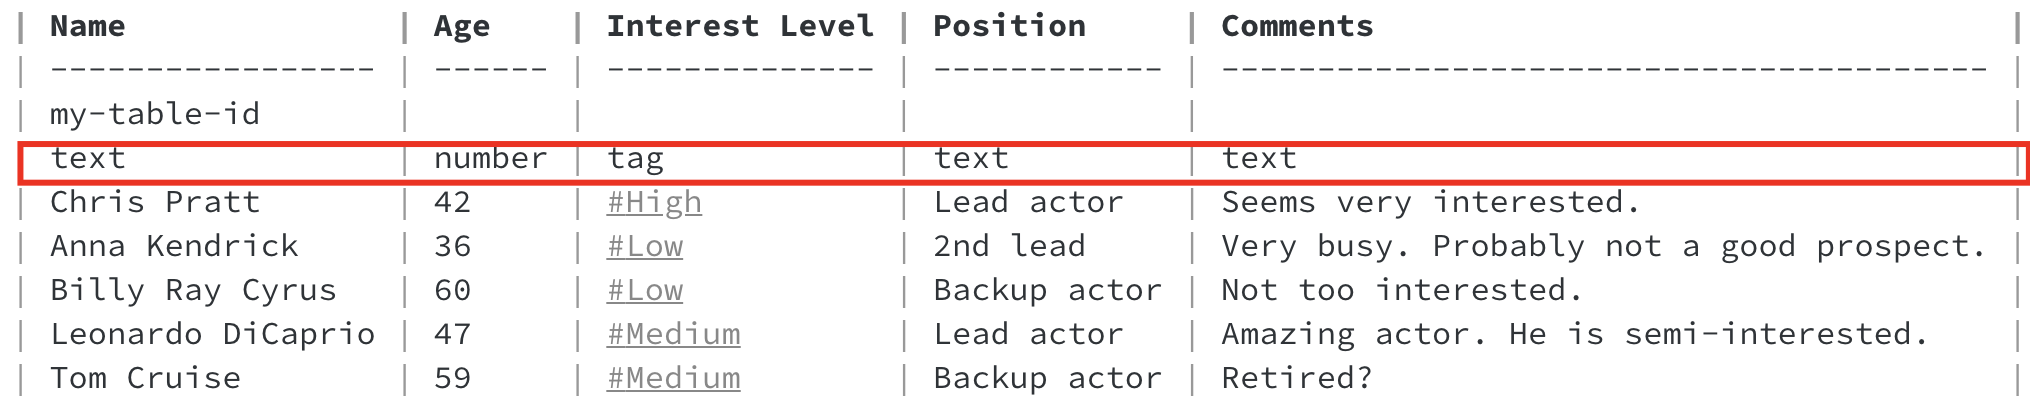
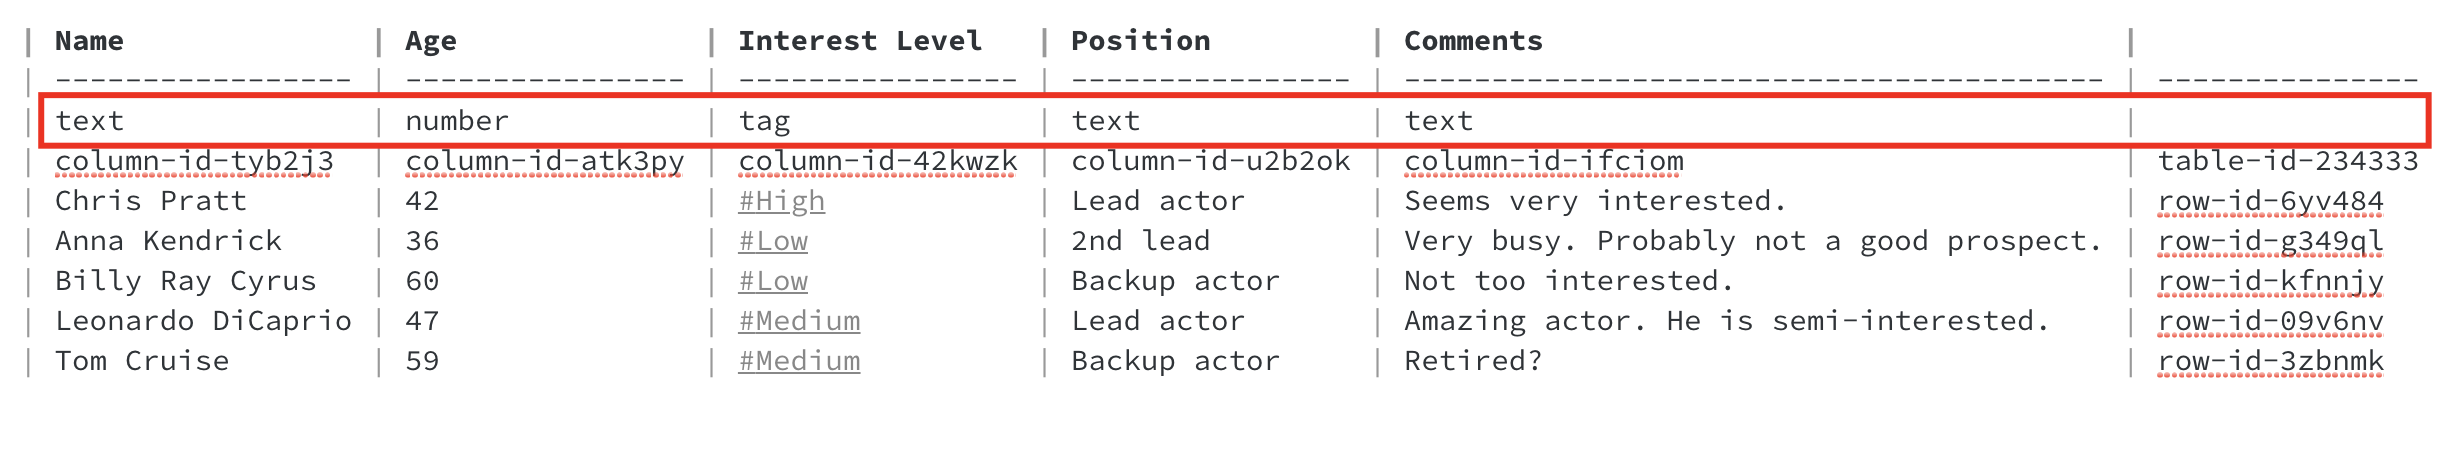
Updated documentation

diff --git a/README.md b/README.md
@@ -8,21 +8,13 @@ Obsidian Notion-Like Tables allows you to create markdown tables using an interf
 
 ## What's New?
 
-## Version 2.3.6
+## Version 3.0.0
 
-In 2.3.4 I introduced a bug that made it impossible to edit cells. This persisted until 2.3.5. I apologize for the inconveniece this caused anyone.
+Notion Like Tables now supports a new table format that will facilitate better development in the plugin.
 
-Version 2.3.6 (newly updated) includes a lot of bug fixes/refactored code. All in all, the functionality is the same, but you should notice that some UI discrepencies were fixed, including how the edit menu for cells appear.
+Please upgrade your tables to this new format. This update also includes several bug fixes that could only be fixed by placing column and row ids into the table.
 
-I also replaced the tabbing system for a custom focus system. Press tab to see how things work now.
-In addition, when you add a new row, the first cell of that row will focus.
-
-Thank you to [imeed166](https://github.com/imeed166) for his help and suggestions. :)
-
-### Version 2.3.0
-
--   Refactored menu into submenus (More like Notion ;)
--   Added cell tabbing for accessibility
+To migrate to the new format please see the section below: `Making a Table Manually`
 
 ## Usage
 
@@ -50,26 +42,39 @@ Toggle to reading mode and the table will automatically render.
 
 ### Making a Table Manually
 
-A Notion-Like Table uses normal Obsidian table markdown syntax with 2 additional rows:
+A Notion-Like Table uses normal Obsidian table markdown syntax with 2 additional rows and 1 column for meta-data:
 
--   A table id row
--   A type definition row
-
-#### Table ID Row
-
-The table id row is a normal markdown row with the first column containing a unique string. This string must be unique for each table in a file (if you use the same id in another file that's fine).
-
-The id is used to map a table to its data in the settings. If you change this id, your table will not be able to find its settings and will create new ones.
-
-If you omit this id, your table will not be rendered as an NLT table.
-
-![Screenshot](https://raw.githubusercontent.com/trey-wallis/obsidian-notion-like-tables/master/.readme/table-id-row.png)
+-   A type defintion row
+-   A column id row
+-   A row id column
 
 ##### Type Definition Row
 
-The type definition row is a normal markdown row with each column defining the type of data you want that column to accept. The plugin currently supports 3 column types: `text`, `number` and `tag`.
+The type definition row is a normal markdown row with each cell containing the type of data you want that column to accept. The plugin currently supports 3 column types: `text`, `number` and `tag`. The last cell of the row must only contain whitespace for a Notion-Like Table to render.
 
 ![Screenshot](https://raw.githubusercontent.com/trey-wallis/obsidian-notion-like-tables/master/.readme/type-definition-row.png)
+
+##### Column Id Row
+
+The column id row is a normal markdown row with each cell containing a unique column id. A column id starts with `column-id-` followed by alpha-numeric characters. This id must be unique to each table, but may be reused in other tables.
+
+![Screenshot](https://raw.githubusercontent.com/trey-wallis/obsidian-notion-like-tables/master/.readme/column-id-row.png)
+
+#### Row Id Column
+
+The row id column is the last column of the table and contains both a table id and the unique ids for each row.
+
+#### Table Id
+
+A table id starts with `table-id-` followed by alpha-numeric characters. This id must be unique to each note, but may be reused in other notes.
+
+![Screenshot](https://raw.githubusercontent.com/trey-wallis/obsidian-notion-like-tables/master/.readme/table-id.png)
+
+#### Row Ids
+
+A row id starts with `row-id-` followed by alpha-numeric characters. This id must be unique to each table, but may be reused in other tables.
+
+![Screenshot](https://raw.githubusercontent.com/trey-wallis/obsidian-notion-like-tables/master/.readme/row-ids.png)
 
 ### Editing Cells
 
@@ -113,7 +118,7 @@ NLTs does not currently have built in history. If you need to undo changes, go t
 
 #### NLT Tables Not Rendering
 
-If your table is missing a table id row or type definition row then it will not be rendered as a Notion-Like Table. Likewise, if you use an invalid column type other than the accepted types `text`, `number`, or `tag`. The table will not be rendered.
+If your table is missing a table id row or type definition row then it will not be rendered as a Notion-Like Table. Likewise, if you use an invalid column type other than the accepted types `text`, `number`, or `tag`. A Notion-Like Table will not be rendered.
 
 #### Cell Type Errors
 
@@ -126,7 +131,7 @@ A cell type error will occur if you enter data which doesn't match the column da
 
 NLT tables uses normal table semantic elements (`table`, `th`, `tr`, `td`, etc) to render. If you wish to edit the display of the table, just style those elements in your CSS.
 
-## Bugs/Feature Requests
+## Bugs and Feature Requests
 
 If you find a bug or would like to suggest a feature, please open an issue [here](https://github.com/trey-wallis/obsidian-notion-like-tables/issues). I will try to respond as soon as possible.
 
